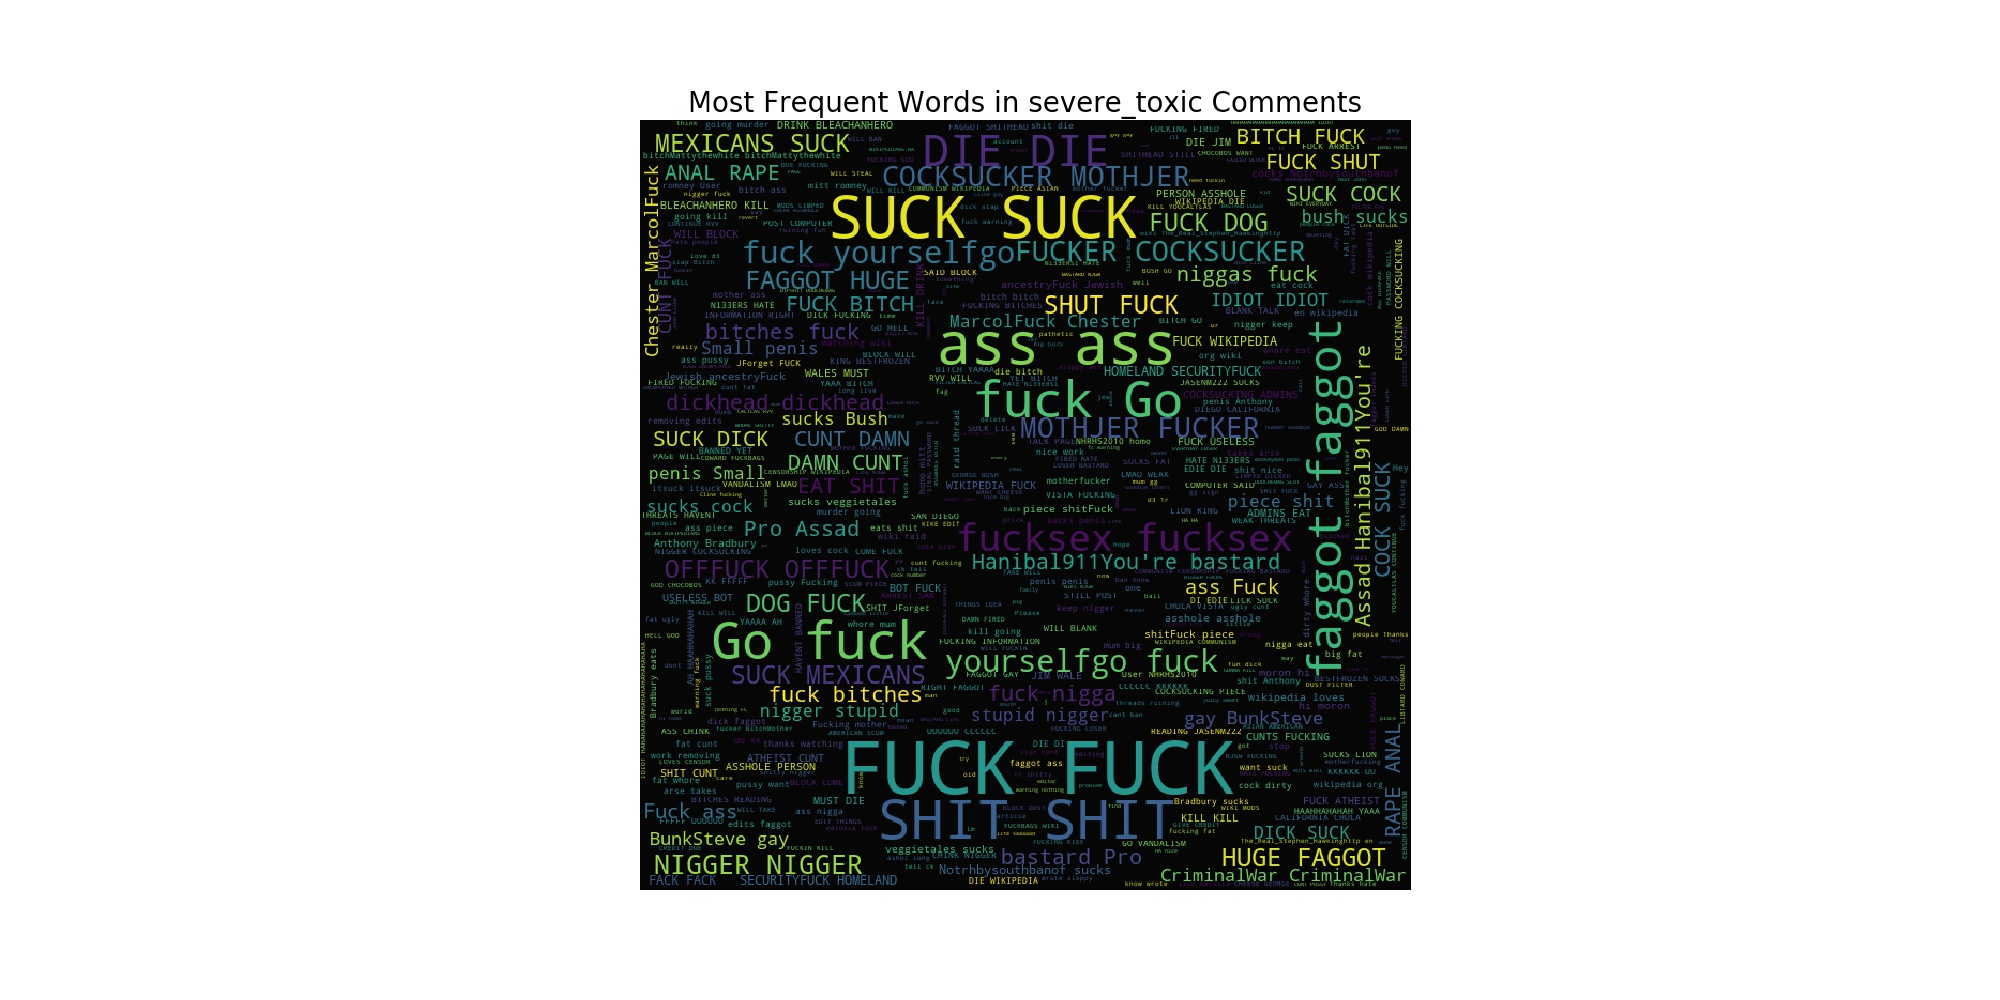
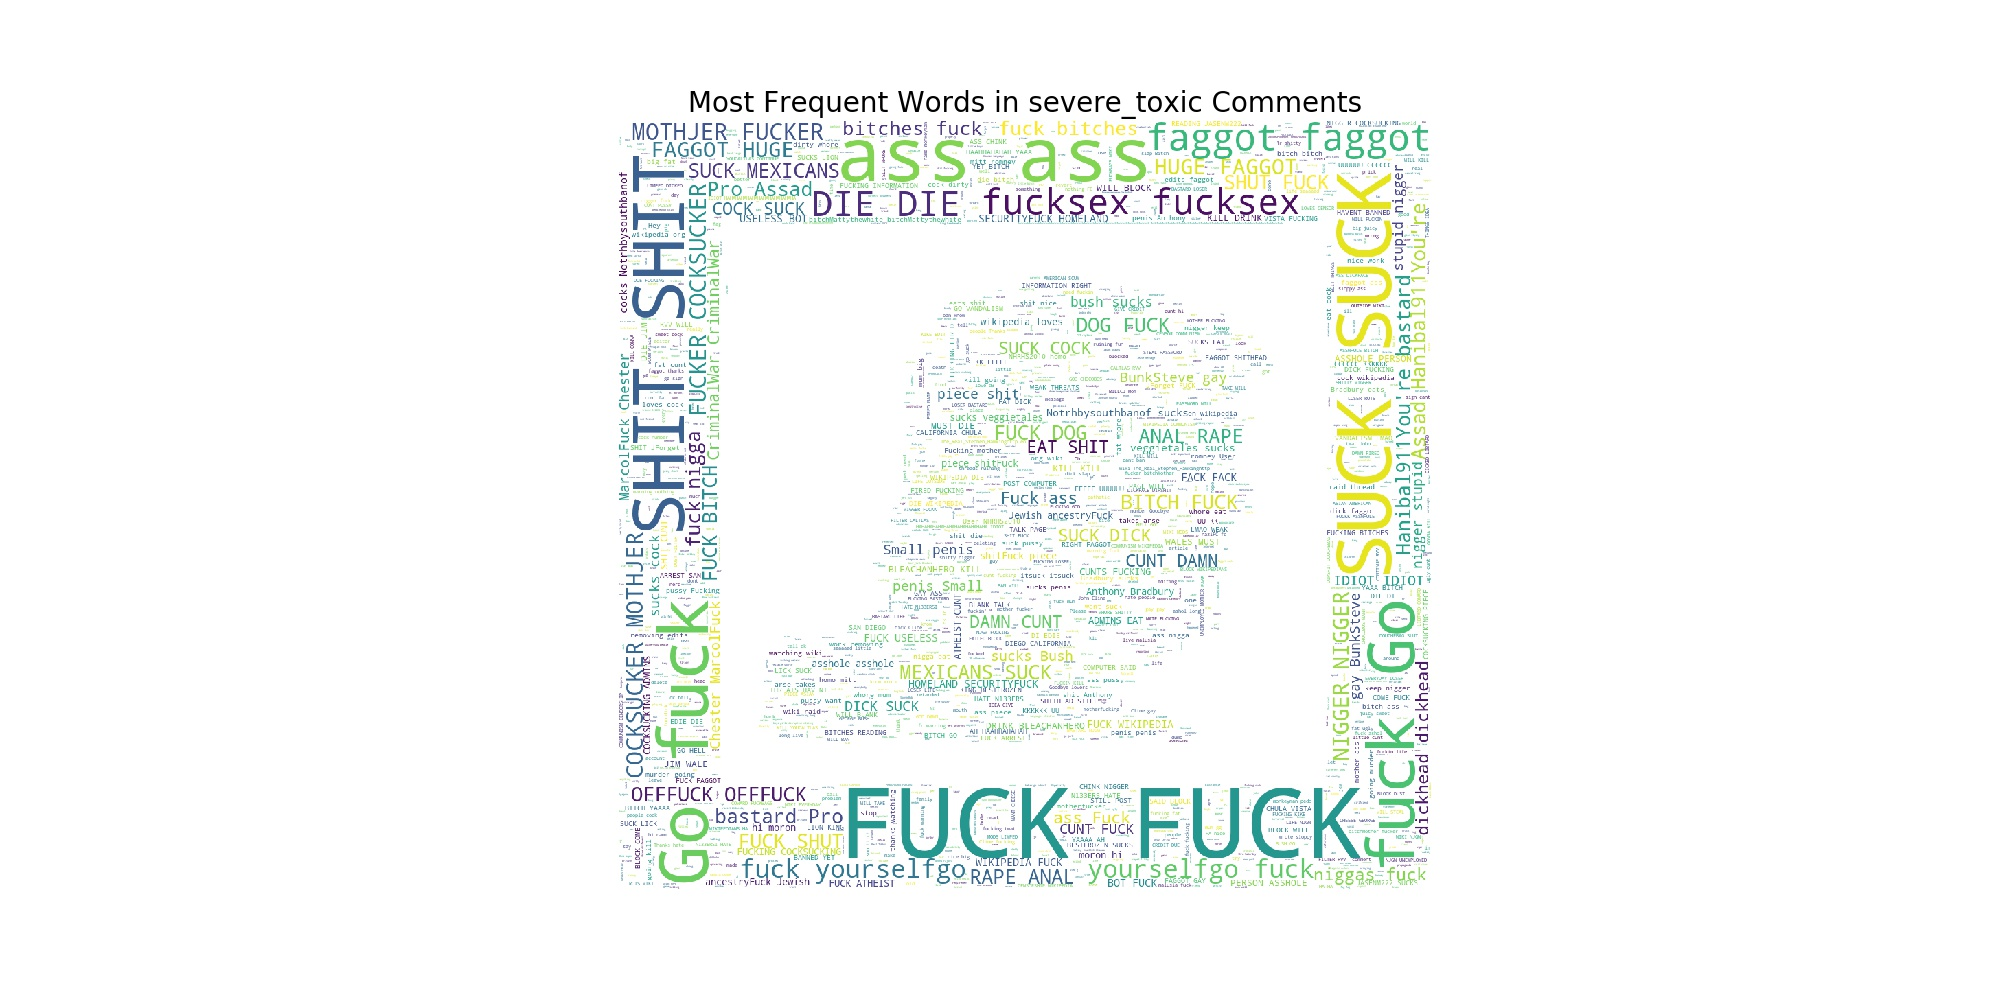
changing mask

diff --git a/src/explore/WordCloudGenerator.py b/src/explore/WordCloudGenerator.py
@@ -17,12 +17,12 @@ if __name__ == '__main__':
     categories=['toxic','severe_toxic','obscene','threat','insult','identity_hate','clean']
     
     for cat in categories:
-        clean_mask=np.array(Image.open('../../data/images/base.png'))
-        clean_mask=clean_mask[:,:,1]
+        clean_mask=np.array(Image.open('../../data/images/mask.jpg'))
+        #clean_mask=clean_mask[:,:,1]
         #wordcloud for clean comments
         subset=train.loc[train[cat]==1]
         text=subset.comment_text.values
-        wc= WordCloud(background_color="black",max_words=2000,mask=clean_mask,stopwords=mystops)
+        wc= WordCloud(background_color="white",max_words=2000,mask=clean_mask,stopwords=mystops)
         wc.generate(" ".join(text))
         plt.figure(figsize=(20,10))
         plt.axis("off")
